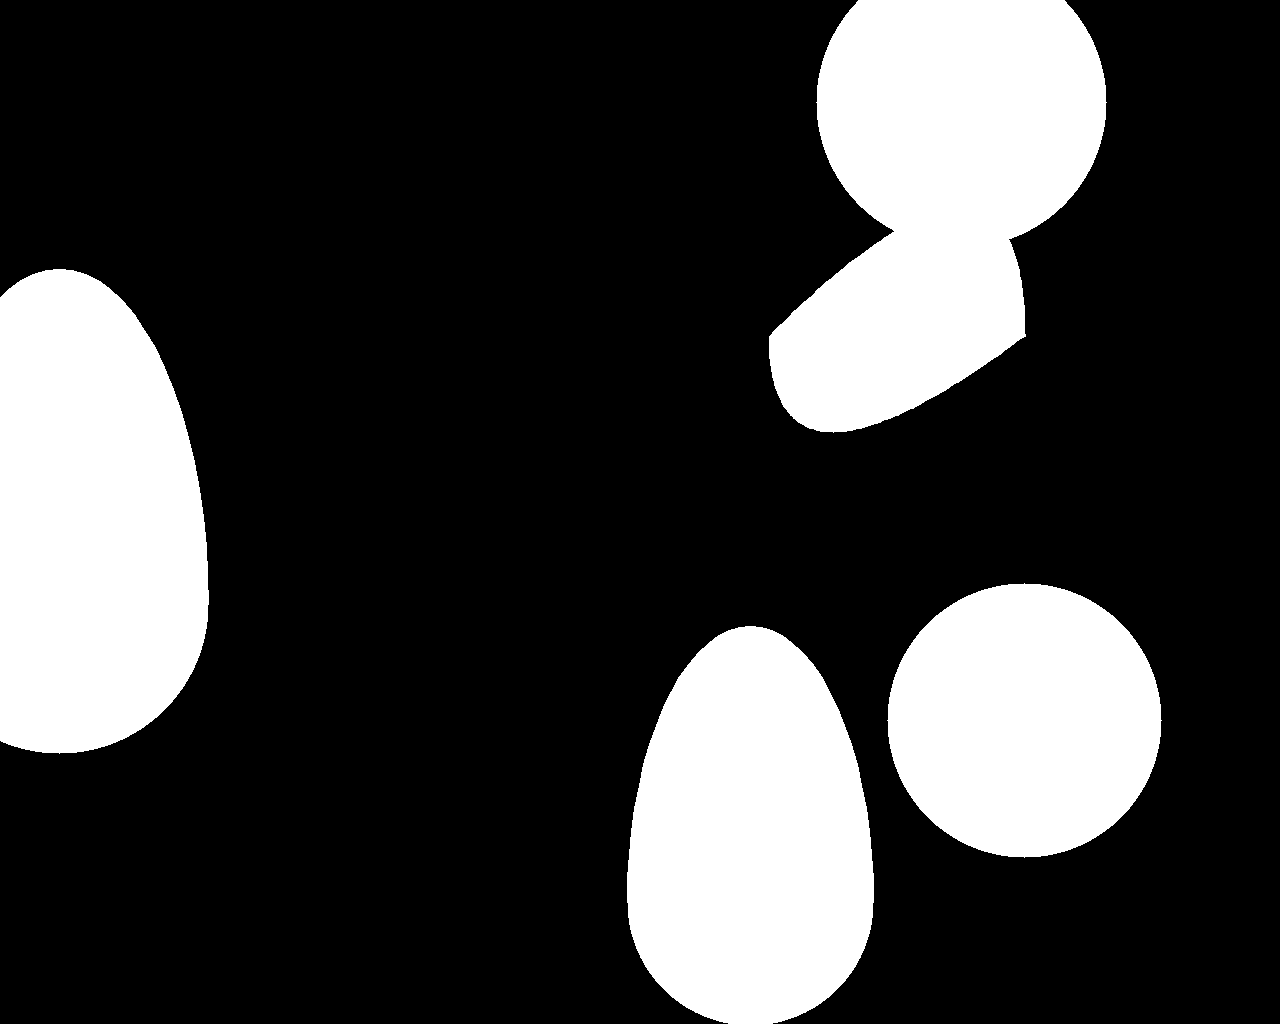
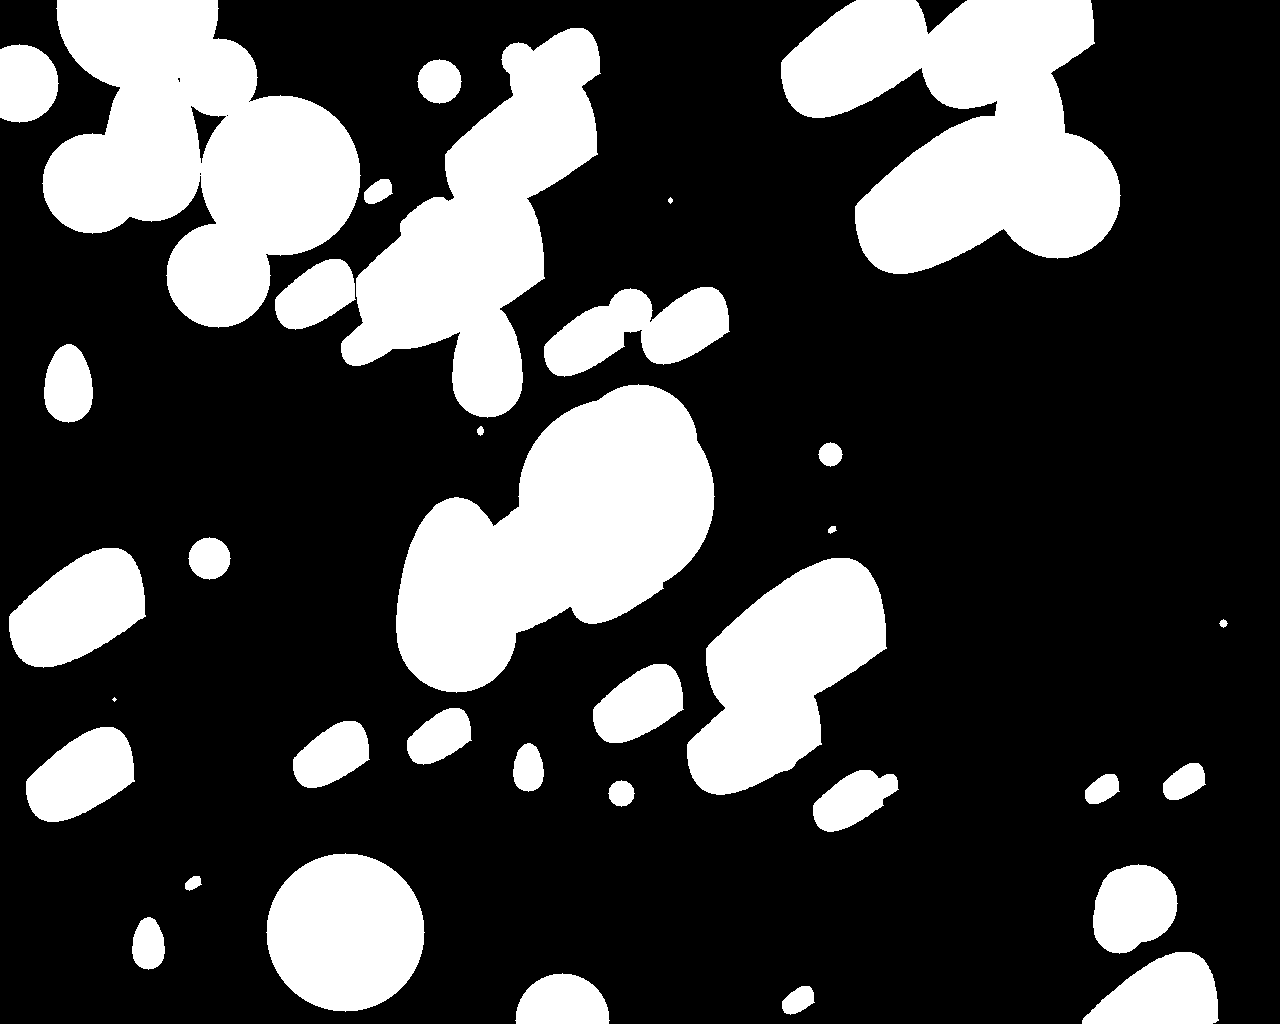
fix some bags with small drops generation and code falling
remove main.py which used for tests

diff --git a/raindrops_generator/raindrop/dropgenerator.py b/raindrops_generator/raindrop/dropgenerator.py
@@ -45,6 +45,7 @@ def CheckCollision(DropList):
 				tmp_devide = drop.getRadius()
 				final_R = drop.getRadius()  * drop.getRadius()
 				for col_id in collision_list:
+					col_id = int(col_id)
 					Checked_list.append(col_id)
 					# list start from 0
 					final_x += DropList[list_len - col_id].getRadius() * DropList[list_len - col_id].getCenters()[0]
@@ -98,7 +99,7 @@ def generate_label(h, w, cfg):
 	label_map = np.zeros([h, w])
 	collisionNum = len(listRainDrops)
 	listFinalDrops = list(listRainDrops)
-	loop = 0    
+	loop = 0
 	while collisionNum > 0:
 		loop = loop + 1
 		listFinalDrops = list(listFinalDrops)
@@ -141,7 +142,7 @@ def generate_label(h, w, cfg):
     
 
 
-def generateDrops(imagePath, cfg, listFinalDrops, label_map):
+def generateDrops(imagePath, cfg, listFinalDrops):
 	"""
 	Generate raindrops on the image
 	:param imagePath: path to the image on which you want to generate drops
@@ -161,33 +162,7 @@ def generateDrops(imagePath, cfg, listFinalDrops, label_map):
 	B = cfg["B"]
 	C = cfg["C"]
 	D = cfg["D"]
-	mask = np.zeros_like(bg_img)
-	for drop in listFinalDrops:
-		if (drop.shape == 0):
-			cv2.circle(mask, drop.center, drop.radius, (255, 255, 255), -1)
-		if (drop.shape == 1):
-			cv2.circle(mask, drop.center, drop.radius, (255, 255, 255), -1)
-			cv2.ellipse(mask, drop.center,\
-                    (drop.radius, int(1.3*math.sqrt(3) * drop.radius)), 0, 180, 360, (255, 255, 255), -1)
-            
-	img = Image.fromarray(np.uint8(mask[:,:,0]) , 'L')            
-	for drop in listFinalDrops:    
-		if (drop.shape == 2):
-			img = Image.fromarray(np.uint8(img) , 'L')
-			draw = ImageDraw.Draw(img)
-			ts = [t/100.0 for t in range(101)]
-			xys = [(drop.radius * C[0] - 2*drop.radius + drop.center[0], drop.radius * C[1] - 3*drop.radius + drop.center[1]), (drop.radius * B[0] - 2*drop.radius + drop.center[0], drop.radius * B[1] - 3*drop.radius + drop.center[1]), (drop.radius * D[0] - 2*drop.radius + drop.center[0], drop.radius * D[1] - 3*drop.radius + drop.center[1])]
-			bezier = make_bezier(xys)
-			points = bezier(ts)
 
-			xys = [(drop.radius * C[0] - 2*drop.radius + drop.center[0], drop.radius * C[1] - 3*drop.radius + drop.center[1]), (drop.radius * A[0] - 2*drop.radius + drop.center[0], drop.radius * A[1] - 3*drop.radius + drop.center[1]), (drop.radius * D[0] - 2*drop.radius + drop.center[0], drop.radius * D[1] - 3*drop.radius + drop.center[1])]
-			bezier = make_bezier(xys)
-			points.extend(bezier(ts))
-			draw.polygon(points, fill = 'white')
-			mask = np.array(img)
-        
-	im_mask = Image.fromarray(mask.astype('uint8'))
-    
 	alpha_map = np.zeros_like(label_map).astype(np.float64)
 	
 
@@ -214,7 +189,7 @@ def generateDrops(imagePath, cfg, listFinalDrops, label_map):
 	alpha_map = alpha_map/np.max(alpha_map)*255.0
 
 	PIL_bg_img = Image.open(imagePath)
-	for drop in listFinalDrops:
+	for idx, drop in enumerate(listFinalDrops):
 		(ix, iy) = drop.getCenters()
 		radius = drop.getRadius()		
 		ROIU = iy - 3*radius
@@ -236,7 +211,11 @@ def generateDrops(imagePath, cfg, listFinalDrops, label_map):
 
 
 		tmp_bg = bg_img[ROIU:ROID, ROIL:ROIR,:]
-		drop.updateTexture(tmp_bg)
+		try:
+			drop.updateTexture(tmp_bg)
+		except:
+			del listFinalDrops[idx]
+			continue
 		tmp_alpha_map  = alpha_map[ROIU:ROID, ROIL:ROIR]
 
 		output = drop.getTexture()		
@@ -249,10 +228,38 @@ def generateDrops(imagePath, cfg, listFinalDrops, label_map):
 
 		PIL_bg_img.paste(edge, (ix-2*radius, iy-3*radius), output)
 		PIL_bg_img.paste(output, (ix-2*radius, iy-3*radius), output)
-		
-	
 
-	
+	mask = np.zeros_like(bg_img)
+
+	if len(listFinalDrops)>0:
+		# make circles and elipses
+		for drop in listFinalDrops:
+			if (drop.shape == 0):
+				cv2.circle(mask, drop.center, drop.radius, (255, 255, 255), -1)
+			if (drop.shape == 1):
+				cv2.circle(mask, drop.center, drop.radius, (255, 255, 255), -1)
+				cv2.ellipse(mask, drop.center,\
+						(drop.radius, int(1.3*math.sqrt(3) * drop.radius)), 0, 180, 360, (255, 255, 255), -1)
+				
+		img = Image.fromarray(np.uint8(mask[:,:,0]) , 'L') 
+		# make beziers           
+		for drop in listFinalDrops:    
+			if (drop.shape == 2):
+				img = Image.fromarray(np.uint8(img) , 'L')
+				draw = ImageDraw.Draw(img)
+				ts = [t/100.0 for t in range(101)]
+				xys = [(drop.radius * C[0] - 2*drop.radius + drop.center[0], drop.radius * C[1] - 3*drop.radius + drop.center[1]), (drop.radius * B[0] - 2*drop.radius + drop.center[0], drop.radius * B[1] - 3*drop.radius + drop.center[1]), (drop.radius * D[0] - 2*drop.radius + drop.center[0], drop.radius * D[1] - 3*drop.radius + drop.center[1])]
+				bezier = make_bezier(xys)
+				points = bezier(ts)
+
+				xys = [(drop.radius * C[0] - 2*drop.radius + drop.center[0], drop.radius * C[1] - 3*drop.radius + drop.center[1]), (drop.radius * A[0] - 2*drop.radius + drop.center[0], drop.radius * A[1] - 3*drop.radius + drop.center[1]), (drop.radius * D[0] - 2*drop.radius + drop.center[0], drop.radius * D[1] - 3*drop.radius + drop.center[1])]
+				bezier = make_bezier(xys)
+				points.extend(bezier(ts))
+				draw.polygon(points, fill = 'white')
+				mask = np.array(img)
+			
+	im_mask = Image.fromarray(mask.astype('uint8'))	
+
 	if ifReturnLabel:
 		output_label = np.array(alpha_map)
 		output_label.flags.writeable = True

diff --git a/raindrops_generator/raindrop/raindrop.py b/raindrops_generator/raindrop/raindrop.py
@@ -61,6 +61,7 @@ class Raindrop():
 		self.col_with = []
 		self.center = centerxy
 		self.radius = radius
+		self.blur_coeff = max(int(self.radius/3), 1)
 		self.shape = shape            
 		self.type = "default"
         # label map's WxH = 4*R , 5*R
@@ -76,7 +77,7 @@ class Raindrop():
 		self.ifcol = col
 		self.col_with = col_with
 
-	def updateTexture(self, bg):		
+	def updateTexture(self, bg): 	
 		fg = pyblur.GaussianBlur(Image.fromarray(np.uint8(bg)), 5)
 		fg = np.asarray(fg)
 		# add fish eye effect to simulate the background
@@ -107,7 +108,7 @@ class Raindrop():
 		"""         
 		if (self.shape == 0):    
 			cv2.circle(self.labelmap, (self.radius * 2, self.radius * 3), int(self.radius), 128, -1)
-			self.alphamap = pyblur.GaussianBlur(Image.fromarray(np.uint8(self.labelmap)), 50)        
+			self.alphamap = pyblur.GaussianBlur(Image.fromarray(np.uint8(self.labelmap)), self.blur_coeff)  
 			self.alphamap = np.asarray(self.alphamap).astype(np.float)
 			self.alphamap = self.alphamap/np.max(self.alphamap)*255.0
 			# set label map
@@ -117,7 +118,7 @@ class Raindrop():
 			cv2.circle(self.labelmap, (self.radius * 2, self.radius * 3), int(self.radius), 128, -1)
 			cv2.ellipse(self.labelmap, (self.radius * 2, self.radius * 3), (self.radius, int(1.3*math.sqrt(3) * self.radius)), 0, 180, 360, 128, -1)
 
-			self.alphamap = pyblur.GaussianBlur(Image.fromarray(np.uint8(self.labelmap)), 50)        
+			self.alphamap = pyblur.GaussianBlur(Image.fromarray(np.uint8(self.labelmap)), self.blur_coeff)        
 			self.alphamap = np.asarray(self.alphamap).astype(np.float)
 			self.alphamap = self.alphamap/np.max(self.alphamap)*255.0
 			# set label map
@@ -140,7 +141,7 @@ class Raindrop():
 			points.extend(bezier(ts))
 			draw.polygon(points, fill = 'gray')           
 
-			self.alphamap = pyblur.GaussianBlur(img, 50)       
+			self.alphamap = pyblur.GaussianBlur(img, self.blur_coeff)       
 			self.alphamap = np.asarray(self.alphamap).astype(np.float)
 			self.alphamap = self.alphamap/np.max(self.alphamap)*255.0
 			# set label map

diff --git a/raindrops_generator/raindrop/config.py b/raindrops_generator/raindrop/config.py
@@ -10,11 +10,11 @@ A, B, C, D -- 4 tuples defining coordinates of Bezier control points in Alpha Ma
 """
 
 cfg = {
-	'maxR': 150,
-	'minR': 120,
-	'maxDrops': 5,
-	'minDrops': 3,
-	'edge_darkratio': 0.3,
+	'maxR': 100, # max not more then 150
+	'minR': 1,
+	'maxDrops': 100,
+	'minDrops': 90,
+	'edge_darkratio': 0.6,
 	'return_label': True,
 	'label_thres': 128,
 	'A': (1, 4.5),
